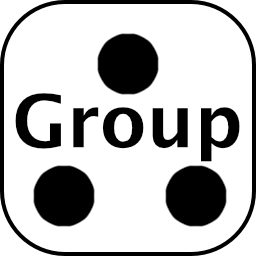
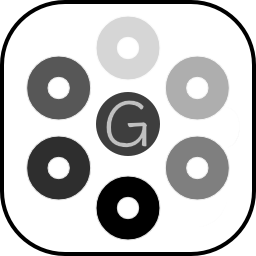
3.2.0 RC3

diff --git a/admin/admin.js b/admin/admin.js
@@ -219,10 +219,10 @@ function updateFoldModel(model, devices, options) {
 }
 
 
-function getModelData(data, models) {
+function getModelData(data, models, keys) {
     const Html = [];
     const s = new Set();
-    for (const k of LocalDataDisplayValues.sortedKeys) {
+    for (const k of keys) {
         const model = models[k];
         const key = model.model.model;
         //console.warn(`getmodeldata: model is ${key}, sO: ${JSON.stringify(model.setOptions)}`);
@@ -240,7 +240,7 @@ function getModelData(data, models) {
         const e_btn = btnParam(e_btn_name, e_btn_tip, 'edit', 'green', false)
         LocalDataDisplayValues.buttonSet.add(d_btn_name);
         LocalDataDisplayValues.buttonSet.add(e_btn_name);
-        const devtxt = (model.devices.length && !foldData.devices) ? `${model.devices.length} device${model.devices.length > 1 ? 's' : ''}` : '';
+        const devtxt = (model.devices.length && !foldData.devices) ? `${model.devices.length} ${model.model.type}${model.devices.length > 1 ? 's' : ''}` : '';
         Html.push(`<tr id="datarowodd">
             <td rowspan="${numrows}" width="15%"><img src=${model.model.icon} class="dev_list"></td>
             <td colspan="2">Model ${key}</td><td>${devtxt}</td>
@@ -337,18 +337,35 @@ function getDeviceData(deviceList, withIcon) {
 
 function sortAndFilter(filter, sort) {
     const fFun = filter || LocalDataDisplayValues.filterMethod;
-    if (LocalDataDisplayValues.searchval && LocalDataDisplayValues.searchval.length) LocalDataDisplayValues.sortedKeys = Object.keys(models).filter((a) => models[a].model.model.toLower().includes(LocalDataDisplayValues.searchval));
-    else LocalDataDisplayValues.sortedKeys = Object.keys(models);
-    if (typeof fFun == 'function') LocalDataDisplayValues.sortedKeys = LocalDataDisplayValues.sortedKeys.filter(fFun);
+    console.warn('once:='+JSON.stringify(models['m_0'].setOptions))
+    console.warn('twice:='+ JSON.stringify(models['m_1'].setOptions))
+    let filterMap = LocalDataDisplayValues.sortedKeys = Object.keys(models);
+    if (LocalDataDisplayValues.searchVal && LocalDataDisplayValues.searchVal.length) {
+        filterMap = filterMap.filter((a) => {
+            return models[a]?.model?.model?.toLowerCase().includes(LocalDataDisplayValues.searchVal)
+        });
+        console.warn(`${JSON.stringify(LocalDataDisplayValues.searchVal)} - ${JSON.stringify(models['m_1'].model)}`);
+    }
+    if (typeof fFun == 'function')  {
+        console.warn(`${JSON.stringify(filterMap)} - ${JSON.stringify(models['m_1'].model)}`);
+        filterMap = filterMap.filter(fFun);
+    }
+    console.warn(JSON.stringify(filterMap));
     const sFun = sort || LocalDataDisplayValues.sortMethod;
-    if (typeof sFun == 'function') LocalDataDisplayValues.sortedKeys = LocalDataDisplayValues.sortedKeys.sort(sFun);
+    if (typeof sFun == 'function') {
+        console.warn(`${JSON.stringify(filterMap)} - ${JSON.stringify(models['m_1'].model)}`);
+        filterMap = filterMap.sort(sFun);
+    }
+    console.warn(JSON.stringify(filterMap));
     if (typeof filter == 'function') LocalDataDisplayValues.filterMethod = filter;
     if (typeof sort == 'function') LocalDataDisplayValues.sortMethod = sort;
+    return filterMap;
 }
 
 function showLocalData() {
     LocalDataDisplayValues.buttonSet.clear();
-    const ModelHtml = getModelData(devices, models);
+    ;
+    const ModelHtml = getModelData(devices, models, sortAndFilter(undefined, undefined));
     const DeviceHtml = getDeviceData(devices);
     const sm = LocalDataDisplayValues.showModels;
     const dmtoggle = btnParam('t_all_models', 'Refresh models', 'developer_board')
@@ -357,9 +374,6 @@ function showLocalData() {
     const Html = [];
 
     if (sm) {
-        sortAndFilter(undefined, undefined);
-        //Html.push(`<div row><div class="col m12 s12 l12>`);
-        //Html.push(`<table style="width:100%"><tr id="datatable"><th rowspan="${RowSpan}">&nbsp;</th><th colspan=4>Model Data</th><th>${dmtoggle}</th><th rowspan="${RowSpan}">&nbsp;</th></tr>`);
         Html.push(`<table style="width:100%"><tr id="datatable"><th rowspan="${RowSpan}">&nbsp;</th><th colspan=4></th><th></th><th rowspan="${RowSpan}">&nbsp;</th></tr>`);
         Html.push(ModelHtml.join(''));
     }
@@ -372,10 +386,10 @@ function showLocalData() {
     //Html.push('</div></div>');
     $('#tab-overrides-content').html(Html.join(''));
 
-    $('#t_all_models').click(function () {
+    /*$('#t_all_models').click(function () {
         //LocalDataDisplayValues.showModels = !LocalDataDisplayValues.showModels;
         getDevices();
-    });
+    });*/
 
     //console.warn(`lddv is ${JSON.stringify(LocalDataDisplayValues)}`)
     for (const item of LocalDataDisplayValues.buttonSet) {
@@ -548,7 +562,7 @@ function getCard(dev) {
                                 </button>
                                 ${groupButton}
                                 <button name="swapimage" class="right btn-flat btn-small tooltipped" title="Select Image">
-                                    <i class="material-icons icon-black">image</i>
+                                    <i class="material-icons icon-black">edit</i>
                                 </button>
                                 ${reconfigureButton}
                                 ${deactBtn}
@@ -638,6 +652,7 @@ function getGroupCard(dev) {
     ;
     info = info.concat(`              ${roomInfo}</ul>
                 </div>`);
+    const infoBtn = `<button name="info" class="left btn-flat btn-small"><i class="material-icons icon-blue">info</i></button>`;
     const image = `<img src="${dev.common.icon}" width="64px" onerror="this.onerror=null;this.src='img/unavailable.png';">`;
     const dashCard = getDashCard(dev, dev.common.icon, memberCount > 0);
     const card = `<div id="${id}" class="device group">
@@ -659,6 +674,7 @@ function getGroupCard(dev) {
                         </div>
                         <div class="card-action">
                             <div class="card-reveal-buttons">
+                                ${infoBtn}
                                 <button name="deletegrp" class="right btn-flat btn-small">
                                     <i class="material-icons icon-black">delete</i>
                                 </button>
@@ -666,7 +682,7 @@ function getGroupCard(dev) {
                                     <i class="material-icons icon-green">edit</i>
                                 </button>
                                 <button name="swapimage" class="right btn-flat btn-small tooltipped" title="Edit">
-                                    <i class="material-icons icon-black">image</i>
+                                    <i class="material-icons icon-black">edit</i>
                                 </button>
                             </div>
                         </div>
@@ -2317,7 +2333,7 @@ function load(settings, onChange) {
         $('#model-search').keyup(function (event) {
             LocalDataDisplayValues.searchVal = event.target.value.toLowerCase();
             if (!LocalDataDisplayValues.searchTimeout)
-                LocalDataDisplayValues.searchTimeout = setTimeout(showLocalData(), 1000);
+                LocalDataDisplayValues.searchTimeout = setTimeout(() => { LocalDataDisplayValues.searchTimeout = null; showLocalData(); }, 250);
         });
         $('#model-sort a').click(function () {
             const t = $(this).text();
@@ -2343,16 +2359,35 @@ function load(settings, onChange) {
                     };
                     break;
                 default:
-                    LocalDataDisplayValues.sortMethod = function(a,b) {
-                        return (models[a].model?.model > models[b].model?.model ? 1 : -1);
-                    };
+                    LocalDataDisplayValues.sortMethod = undefined;
             }
             showLocalData();
         });
+        $('#refresh_models_btn').click(function () {
+            getDevices();
+        });
         $('#model-filter a').click(function () {
-            $('#model-filter-btn').text($(this).text());
-            const fun = $('#model-filter-btn').attr('data-type');
-            console.warn(`model filter func ${fun}`)
+            const t = $(this).text();
+            $('#model-filter-btn').text(t);
+            switch (t) {
+                case 'Groups':
+                    LocalDataDisplayValues.filterMethod = function(a) { return models[a].model.model== 'group'};
+                    break;
+                case 'Routers':
+                    LocalDataDisplayValues.filterMethod = function(a) { return models[a].model.type == 'Router'};
+                    break;
+                case 'End Devices':
+                    LocalDataDisplayValues.filterMethod = function(a) { return models[a].model.type == 'EndDevice'};
+                    break;
+                case 'with options':
+                    LocalDataDisplayValues.filterMethod = function(a) { return models[a].setOptions && Object.keys(models[a].setOptions).length > 0 };
+                    break;
+                case 'without options':
+                    LocalDataDisplayValues.filterMethod = function(a) { return !(models[a].setOptions && Object.keys(models[a].setOptions).length > 0) };
+                    break;
+                default: LocalDataDisplayValues.filterMethod = undefined;
+            }
+            showLocalData();
         });
     });
 

diff --git a/admin/index_m.html b/admin/index_m.html
@@ -1237,7 +1237,7 @@
             <nav class="resposHeight" style="margin-left: -12px; line-height: 24px; width: calc(100% + 24px);">
                 <ul id="nav-mobile-2" class="left">
                     <li>
-                        <a id="refresh_btn" class="btn-floating waves-effect waves-light tooltipped center-align hoverable translateT" title="refresh data">
+                        <a id="refresh_models_btn" class="btn-floating waves-effect waves-light tooltipped center-align hoverable translateT" title="refresh data">
                             <i class="material-icons large">refresh</i>
                         </a>
                     </li>
@@ -1254,7 +1254,7 @@
                             <a id="model-sort-btn" class="dropdown-trigger btn" href="#" data-target="model-sort">all</a>
                             <ul id="model-sort" class="dropdown-content" tabindex="0">
                                 <li class="model-sort-item" data-type="function(a,b) { return true }" tabindex="0">
-                                    <a class="translate" data-lang="withoutoptions">all</a></li>
+                                    <a class="translate" data-lang="default">default</a></li>
                                 <li class="model-sort-item" data-type="by type" tabindex="0">
                                     <a class="translate" data-lang="by type">by type</a></li>
                                 <li class="model-sort-item" data-type="by device count" tabindex="0">
@@ -1269,12 +1269,12 @@
                             <i class="material-icons left" style="line-height: 24px; margin-top: 5px;">filter_list</i>
                             <a id="model-filter-btn" class="dropdown-trigger btn" href="#" data-target="model-filter">all</a>
                             <ul id="model-filter" class="dropdown-content" tabindex="0">
-                                <li class="model-filter-item" data-type="function(a) { return !(LocalDisplayDataValues[a].setOptions?.length > 0) }" tabindex="0"><a class="translate" data-lang="with options">without options</a></li>
-                                <li class="model-filter-item" data-type="function(a) { return LocalDisplayDataValues[a].setOptions?.length > 0 }" tabindex="0"><a class="translate" data-lang="with options">with options</a></li>
-                                <li class="model-filter-item" data-type="function(a) { return LocalDisplayDataValues[a].type == 'Router' }" tabindex="0"><a class="translate" data-lang="Routers">Routers</a></li>
-                                <li class="model-filter-item" data-type="function(a) { return LocalDisplayDataValues[a].type == 'EndDevice' }" tabindex="0"><a class="translate" data-lang="End Devices">End Devices</a></li>
-                                <li class="model-filter-item" data-type="function(a) { return LocalDisplayDataValues[a].type == 'group' }" tabindex="0"><a class="translate" data-lang="Groups">Groups</a></li>
-                                <li class="model-filter-item" data-type="function(a) { return true }" tabindex="0"><a class="translate" data-lang="all">all</a></li>
+                                <li class="model-filter-item" data-type="with options" tabindex="0"><a class="translate" data-lang="without options">without options</a></li>
+                                <li class="model-filter-item" data-type="without options" tabindex="0"><a class="translate" data-lang="with options">with options</a></li>
+                                <li class="model-filter-item" data-type="routers" tabindex="0"><a class="translate" data-lang="Routers">Routers</a></li>
+                                <li class="model-filter-item" data-type="end devices" tabindex="0"><a class="translate" data-lang="End Devices">End Devices</a></li>
+                                <li class="model-filter-item" data-type="groups" tabindex="0"><a class="translate" data-lang="Groups">Groups</a></li>
+                                <li class="model-filter-item" data-type="all" tabindex="0"><a class="translate" data-lang="all">all</a></li>
                             </ul>
                         </div>
                     </li>

diff --git a/lib/commands.js b/lib/commands.js
@@ -337,7 +337,7 @@ class Commands {
     }
 
     async handleGroupforInfo(group, groups) {
-        group.icon = 'img/group.png';
+        group.icon = 'img/group_1.png';
         group.vendor = 'ioBroker';
         // get group members and store them
         const match = /zigbee.\d.group_([0-9]+)/.exec(group._id);
@@ -411,6 +411,8 @@ class Commands {
                 setOptions: this.adapter.stController.localConfig.getByModel(device.info?.mapped?.model || 'unknown') || [],
                 devices: [device],
             }
+            if (!models.byUID[UID].model.type)
+                models.byUID[UID].model.type = 'Group';
             models.UIDbyModel[device.info?.mapped?.model || 'unknown'] = UID;
         }
         // check configuration
@@ -485,11 +487,18 @@ class Commands {
             else {
                 rv.mapped = {
                     model:device.name,
+                    type: device.device.type,
                     description:device.name,
                     vendor:'not set',
                     hasOnEvent: false,
                     hasConfigure: false,
                     options:[],
+                }
+            }
+            if (device.memberinfo) {
+                rv.device.members= device.memberinfo.length;
+                for (let m = 0; m < device.memberinfo.length; m++) {
+                    rv.device[`member ${m}`] = `${device.memberinfo[m].device}.${device.memberinfo[m].epid} (${dev.memberinfo[m].ieee}/${device.memberinfo[m].epid}`;
                 }
             }
         }

diff --git a/lib/localConfig.js b/lib/localConfig.js
@@ -317,11 +317,12 @@ class localConfig extends EventEmitter {
     async retainData(isStopping) {
         if (isStopping) {
             if (this.delayRetain) clearTimeout(this.delayRetain);
-            this.writeData();
+            this.writeData(this);
             return;
         }
         if (this.delayRetain) return;
-        this.delayRetain = setTimeout(this.writeData, 500);
+        const t = this;
+        this.delayRetain = setTimeout(() => this.writeData(t), 500);
     }
 
     enumerateImages(_path) {

diff --git a/README.md b/README.md
@@ -35,8 +35,6 @@ Current firmware files for these devices can be found [on GitHub](https://github
 ### Dresden Elektronik SoC
 <span><img src="https://raw.githubusercontent.com/ioBroker/ioBroker.zigbee/master/docs/en/img/deconz.png" width="180"></span>
 
-As of May 2025, raspbee and conbee variants are no longer recommended, as the code is no longer actively maintained and has fallen behind the other variants with regards to functionality.
-
 Conbee/RaspBee Support is no longer considered experimental in the zigbee-herdsman and zigbee-herdsman-converters libraries used by the zigbee Adapter, use of these devices with the adapter may limit functionality. Known issues are:
 - link quality display may be incorrect
 - device map metrics may be incorrect
@@ -60,7 +58,7 @@ The adapter should **always** be installed from within the ioBroker Admin. Direc
 At first start, it is vital to set up the adapter settings. These include:
 - the communication to the zigbee Coordinator (COM Port). This can be a device identifier or a network address for Network-based coordinators
 - the required firmware-Type
-- the network parameters PanID (a number between 0 and 65565), extended PanID (a 16 digit HEX number) and the zigbee Channel **important: Do not run the adapter without changing the values for PanID (6754) and Extended PanID (DDDDDDDDDDDDDDDD) to unique values for your Zigbee Installation.**
+- the network parameters PanID (a number between 0 and 65565), extended PanID (a 16 digit HEX number) and the zigbee Channel **important: Do not run the adapter without changing the values for PanID (6754) and Extended PanID (DDDDDDDDDDDDDDDD) to unique values for your Zigbee Installation. From v3.0 onwards, the adapter will suggest a unique ExtPanID on any new install**
 
 
 ![](docs/en/img/Zigbee_config_en.png)
@@ -77,6 +75,11 @@ The adapter is placed in pairing mode by pressing the pairing button:
 ![](docs/en/img/Zigbee_pairing_en.png)
 
 A dialog showing a pairing countdown appears. When a new device is discovered, interviewed and paired with the network, messages will be shown in this dialog, and the device will show up in the grid of active devices. Any known device should show up with an image and the correct device name, as well as a number of changable settings. Any unknown device will show up with a device name and a ? as icon, while devices which failed the pairing will show up as 'unknown' with the same ? icon. These should be removed from the network to be paired again. Please refer to the documentation linked above for more details.
+
+
+## In Depth Documentation
+
+In depth information can be found here [auf deutsch](https://github.com/ioBroker/ioBroker.zigbee/blob/master/docs/de/readme.md), here [in english](https://github.com/ioBroker/ioBroker.zigbee/blob/master/docs/en/readme.md). There is more information on the [wiki](https://github.com/ioBroker/ioBroker.zigbee/wiki) as well.
 
 ## Advanced options
 
@@ -107,11 +110,18 @@ The Adapter offers to collect debug information for specific devices in order to
 
 The debug information is only available from the zigbee tab.
 
-### Local overrides
+### Local overrides (Only available until v3.1.5)
 
-Device integration can be modified on a *per Model* basis, allowing the user to customise the states associated with the device. Note that before version 3.1.0, this is limited to choosing between the default *expose based* integration and the previous *legacy* integration. More options for customisation are under development.
+~~Device integration can be modified on a *per Model* basis, allowing the user to customise the states associated with the device. Note that before version 3.1.0, this is limited to choosing between the default *expose based* integration and the previous *legacy* integration. More options for customisation are under development.~~
 
 The local overrides are only available from the instance configuration
+
+### Local data (available v3.2.0 or newer)
+
+Options, name and icon can be set on a model base from this section. Note: The legacy option (if offered) will revert to the legacy code in the adapter.
+Changing anything here **may** require a restart of the adapter before it becomes active.
+
+The local data are only available from the instance configuration
 
 ### Developer Mode
 
@@ -121,7 +131,8 @@ The developer tab is only available from the instance configuration
 
 
 
-## Additional info
+### Additional info
+
 
 There is a [friendly project](https://github.com/koenkk/zigbee2mqtt) with similar functionality which is based on the same technology. It uses the same base libraries for hardware communication and device integration. Any device listed as compatible in this project is likely to be compatible with the ioBroker.zigbee Adapter. Note that there is a delay between device integration into zigbee2mqtt.io and the Zigbee-Adapter, as compatibility with the hardware libraries requires verification before the adapter can move to the latest version.
 
@@ -133,15 +144,6 @@ There are knowledge bases that can be useful for working with Zigbee-devices and
 
 Pleae refer to [this list](https://www.zigbee2mqtt.io/supported-devices/) to check compatibility. Once a device is listed as compatible there, it is either already compatible with the Zigbee Adapter or can be made compatible using an external converter.
 
-## In Depth Documentation
-
-[in Deutsch](https://github.com/ioBroker/ioBroker.zigbee/blob/master/docs/de/readme.md)
-
-[in English](https://github.com/ioBroker/ioBroker.zigbee/blob/master/docs/en/readme.md)
-
-or
-
-[wiki](https://github.com/ioBroker/ioBroker.zigbee/wiki)
 
 
 
@@ -156,9 +158,13 @@ You can thank the authors by these links:
 ### **WORK IN PROGRESS ###
 * (asgothian) remove local overrides tab from config
 * (asgothian) establish local data tab in config to edit global and device level settings and options
+* (asgothian) remove the local overrides tab
 * (asgothian) remove the ability to set model level overrides from device tab.
 * (asgothian) fix errors for 'polling' devices with changed poll times.
-*
+* (asgothian) warning icon for devices which are not completely interviewed.
+* (asgothian) improved router detection for opening the network
+* (asgothian) bugfix: open network on router
+* (asgothian) ZHC 25.x latest, ZH 6.1.3,
 
 ### 3.1.5 (2025-10-04)
 * (asgothian) Bugfixes

diff --git a/docs/de/readme.md b/docs/de/readme.md
@@ -124,9 +124,9 @@ In Beiden Fällen ist es hinreichend den Adapter neu zu starten - die entspreche
 | ![](img/info.png) | Info <br> Öffnet die Informationsanzeige zum Gerät. Die auf dieser Seite dargestellten Informationen stammen direkt vom Gerät. Sie sind auch für unbekannte Geräte verfügbar.  |
 | ![](img/debug.png) | Gerät debuggen <br> Aktiviert / deaktivert die Erzeugung von erweiterten Debug-Meldungen für dieses Gerät. Die Farbe des Icons zeigt den aktuellen Status an: (Schwarz/Weiss: keine Debug Meldungen, Grün Debug Meldungen - deaktivierbar mit dieser Schaltflächce. Orange - Debug Meldungen via Filter unter zigbee.x.info.debugmessages.  |
 | ![](img/on_off.png) | An/Aus <br> Mit dieser Schaltfläche kann ein Gerät aktiviert / deaktiviert werden. Mit deaktiverten Geräten findet keine Kommunikation statt. |
-| ![](img/edit_image.png) | Bild / Name zusweisen <br> Mit dieser Schaltfläche ist es Möglich für das Gerät basierend auf dem Gerät oder dem Gerätetyp ein eigenes Bild und / oder einen eigenen Namen vorzugeben. Vorgaben die so gemacht werden bleiben erhalten wenn das Gerät gelöscht wird.  |
+| ![](img/edit_image.png) | Bild / Name zusweisen <br> Mit dieser Schaltfläche ist es Möglich die Bezeichnung des Gerätes, das Bild des Gerätes oder die Optionen des Gerätes anzupassen. Wichtig - die Einstellungen können hier **nur** auf Gerätebasis durchgeführt werden. Die Vorgabe auf Modellbasis ist in der Konfiguration hinterlegt.Vorgaben die so gemacht werden bleiben erhalten wenn das Gerät gelöscht wird.  |
 | ![](img/reconfigure.png) | Das Gerät konfigurieren. <br> Mit dieser Schaltfläche ist es Möglich für das Gerät erneut zu konfigurieren. Dabei wird der *Converter* Angewiesen die Aktionen durchzufuehren die zur Konfiguration vorgesehen sind. Ueblicherweise werden damit verscheidene Cluster / Attribute an den Koordinator gebunden, um dafuer zu sorgen das das Gerät Informationen *Event* getriggert an den Koordinator sendet.<br>Damit dieses erfolgreich ist muss das Gerät aktiv sein. Insbesondere bei Batterie-betriebenen Geräten ist das of nut kurz nach einer Aktivierung der Fall.<br>Bei einer erfolgreichen Konfiguration verschwindet der Dialog ohne weitere Meldung, und es wird eine Info Meldung im Log platziert. Nur wenn die Konfiguration nicht erfolgreich war gibt es eine Meldung. Dabei sind 2 Arten von Meldungen zu unterscheiden - eine allgemeine Zeitüberschreitung (The device did not repond in time to the configuration request. Another attempt will be made when the device is awake.) oder eine echte Fehlermeldung. Im Falle der Zeitüberschreitung wird das Gerät in eine Liste eingetragen und bei der naechsten Kontaktaufnahme konfiguriert. Im Fehlerfall unterbleibt die Konfiguration. |
-| ![](img/edit_grp.png) | Name / Gruppen editieren <br> Über diese Schaltfläche lässt sich der Name eines Gerätes sowie - wenn zutreffent - die Zuordnung des Gerätes zu einer oder mehreren Gruppen anpassen.   |
+| ![](img/edit_grp.png) | Name / Gruppen editieren <br> Über diese Schaltfläche lässt sich die Zuordnung des Gerätes zu einer oder mehreren Gruppen anpassen. Der Button ist nur bei Geräten verfügbar die sich auch gruppieren lassen. Hinweis: Fernbedienungen werden den Gruppen nicht hinzugefügt - statt dessen müssen diese via 'binding' an die Gruppe gebunden werden.  |
 | ![](img/delete.png) | Gerät löschen <br> Started den Löschvorgang für dieses Gerät.  |
 
 ## Zusätzliche Informationen

diff --git a/docs/en/readme.md b/docs/en/readme.md
@@ -122,8 +122,8 @@ In both cases, restarting the adapter is sufficient – the adapter's corr
 | ![](../de/img/reconfigure.png) | (re)configure the device. <br> This button allows to trigger a device configuration, which is used to tell the device what data to report automatically to the coordinator. The configuration items are defined in the *converter* for this device. Note that the device needs to be active for a configuration attempt to be successful. If the device is not active, the attempt will time out, and the device will be placed in a queue of devices to be configured the next time the device i sends a message.  |
 | ![](../de/img/debug.png) | Debug device <br> Enables / disables the generation of extended debug messages for this device. The color of the icon indicates the current status: (Black/White: no debug messages, Green: debug messages - can be deactivated with this button. Orange: debug messages via filter under zigbee.x.info.debugmessages. |
 | ![](../de/img/on_off.png) | On/Off <br> This button can be used to activate/deactivate a device. No communication takes place with deactivated devices. |
-| ![](../de/img/edit_image.png) | Assign image/name <br> This button allows you to specify a custom image and/or name for the device based on the device or device type. Settings made in this way are retained even if the device is deleted. |
-| ![](../de/img/edit_grp.png) | Edit name/groups <br> This button can be used to change the name of a device and - if applicable - the assignment of the device to one or more groups. |
+| ![](../de/img/edit_image.png) | Assign image/name <br> This button allows you to Assign a name, an icon or options for a specific device. Note that this assignment is **solely** on device level. model-level assingment is done via the settings. Settings made in this way are retained even if the device is deleted. |
+| ![](../de/img/edit_grp.png) | Edit name/groups <br> This button can be used change the devices associationw ith one or more groups. This button is only available on devices which can be assigned to groups. Note: Remotes are not added to the groups - they need to be bound to the group using the 'binding' tab. |
 | ![](../de/img/delete.png) | Delete device <br> Starts the deletion process for this device. |
 ## Additional information
 The Zigbee-Adapter shares the same libraries (zigbee-herdsman, zigbee-herdsman-converters) asn the [Zigbee2mqtt](https://www.zigbee2mqtt.io/) Project ([Github Link](https://github.com/Koenkk/zigbee2mqtt)). It is possible to use zigbee2mqtt.io directly with ioBroker using MQTT or its own [Adapter](https://github.com/arteck/ioBroker.zigbee2mqtt).<br>
